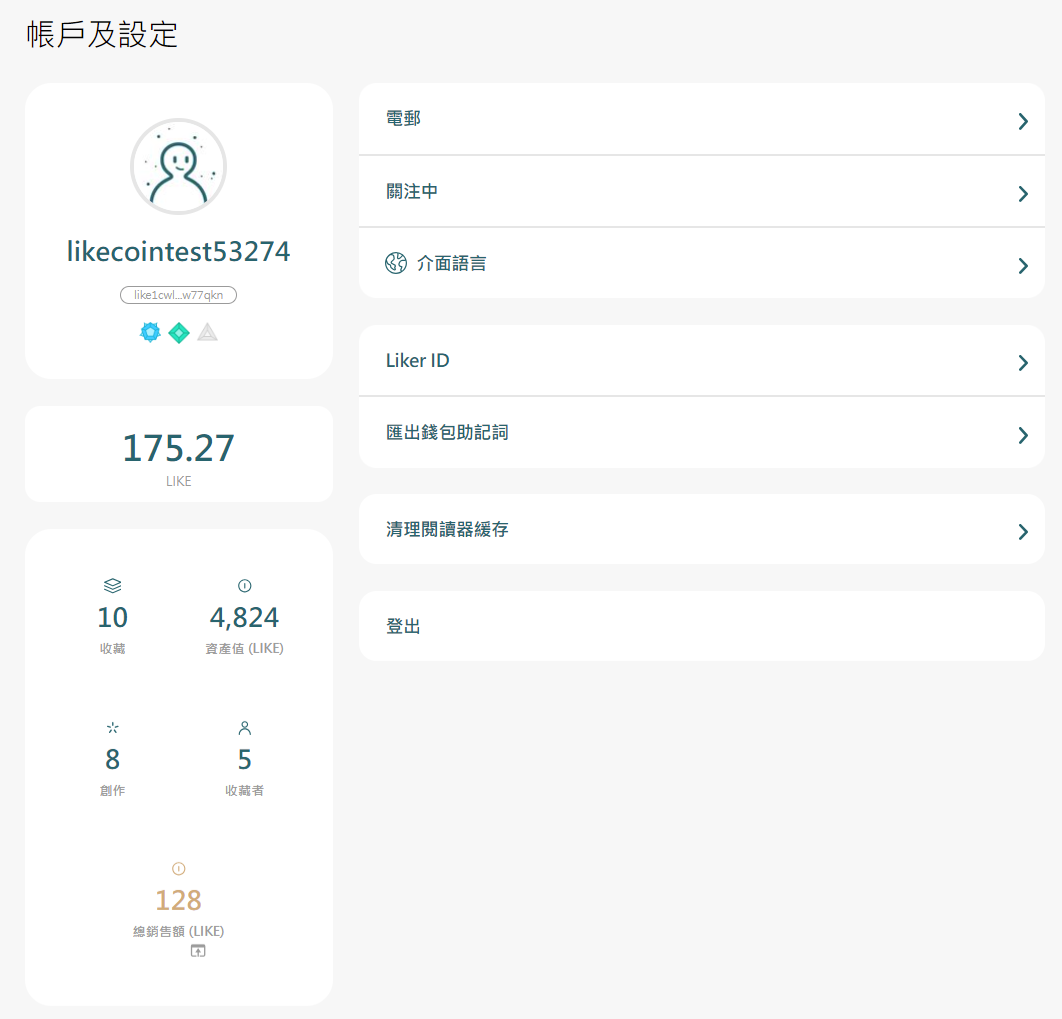
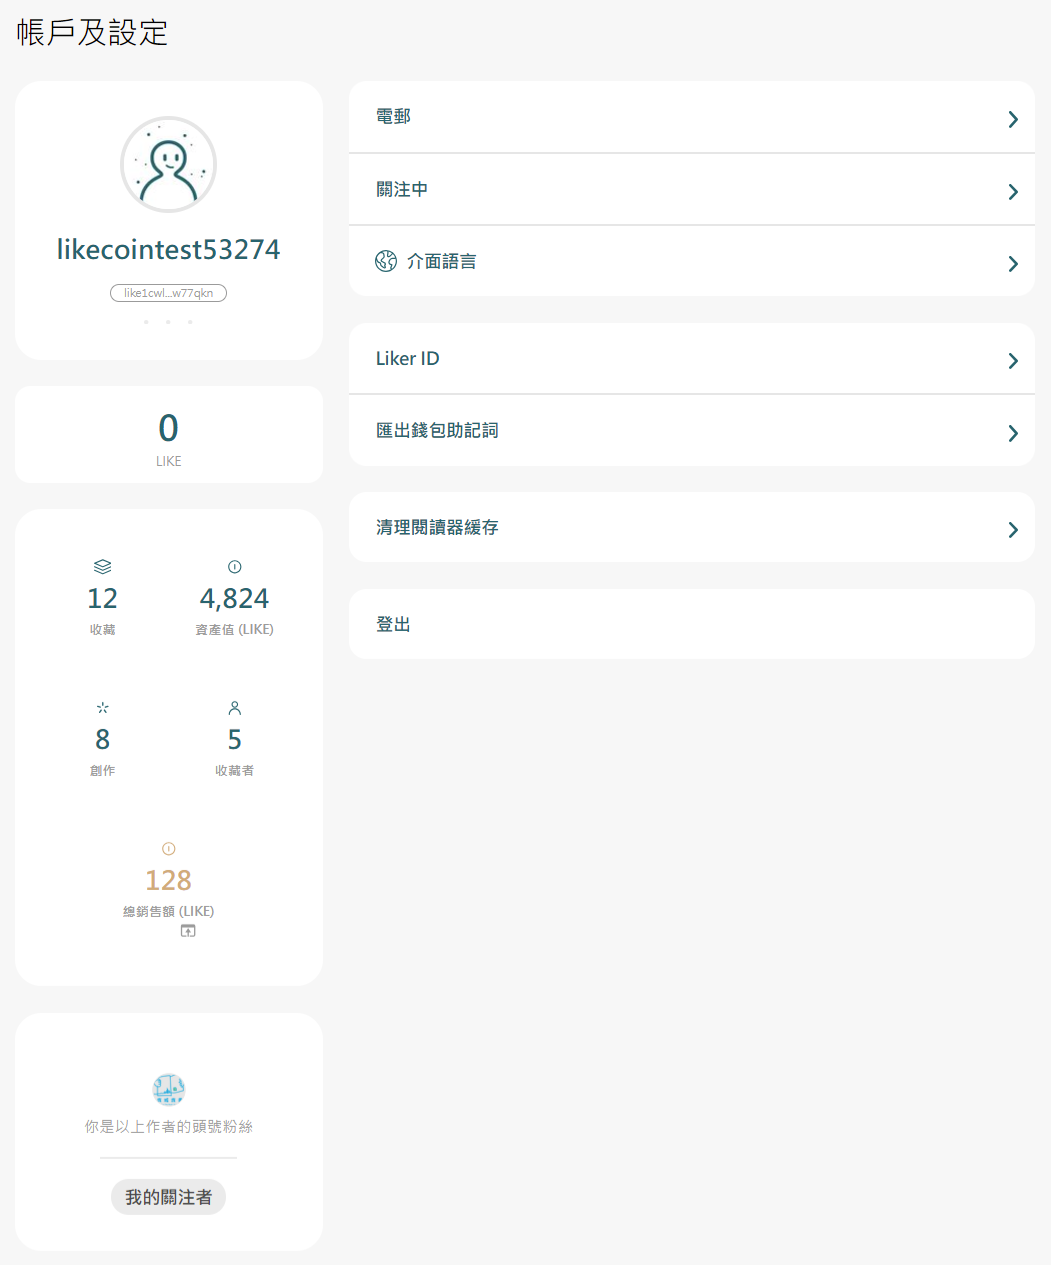
GITBOOK-4721: Liker Land 功能介紹

diff --git a/depub/liker-land/README.md b/depub/liker-land/README.md
@@ -2,7 +2,7 @@
 description: 網頁版的 Liker Land
 ---
 
-# Liker Land 介紹
+# Liker Land 功能介紹
 
 登入網頁版的 [https://Liker.Land](./#xuan-xiang-yi-wo-de-shu-jia-httpsliker.landdashboard) 後點右上角的頭像出現其他操作選項。
 
@@ -35,6 +35,16 @@ description: 網頁版的 Liker Land
 <figure><img src="../../.gitbook/assets/My Dashboard Total Sales Sample 1.png" alt=""><figcaption><p>在我的書架點總銷售額 (LIKE) 可查看 NFT 的銷售收入、二手銷售及分潤</p></figcaption></figure>
 
 <figure><img src="../../.gitbook/assets/My Dashboard Total Sales Sample 2.png" alt=""><figcaption><p>分潤實例</p></figcaption></figure>
+
+### 頭號粉絲及我的關注者
+
+查看自己是誰人的頭號粉絲。點「我的關注者」可查看誰人正在關注自己。
+
+<figure><img src="../../.gitbook/assets/Fans and Followers 1.png" alt=""><figcaption><p>頭號粉絲及我的關注者</p></figcaption></figure>
+
+查看我的關注者後，可點「匯出正在關注我的名單」匯出關注者清單。
+
+<figure><img src="../../.gitbook/assets/Fans and Followers 2.png" alt=""><figcaption><p>點「匯出正在關注我的名單」匯出關注者清單</p></figcaption></figure>
 
 ### 電郵 - [https://liker.land/zh-Hant/settings/email](https://liker.land/zh-Hant/settings/email)
 

diff --git a/depub/liker-land/notifications.md b/depub/liker-land/notifications.md
@@ -6,8 +6,6 @@ description: NFT 作者及收藏者雙向互動
 
 [**通知功能**](https://liker.land/zh-Hant/notifications)讓贈送及收藏 NFT 記錄從此一目瞭然，創作者更可以查看收藏者給你的留言，接續進行交流互動。購買與收藏從此再不單向。
 
-## Liker Land 網頁版
-
 登入 [Liker Land 網頁版](https://liker.land/)後點右上角的頭像再點「[通知](https://liker.land/zh-Hant/notifications)」。
 
 <figure><img src="../../.gitbook/assets/notifications.png" alt=""><figcaption><p>NFT 通知功能</p></figcaption></figure>
